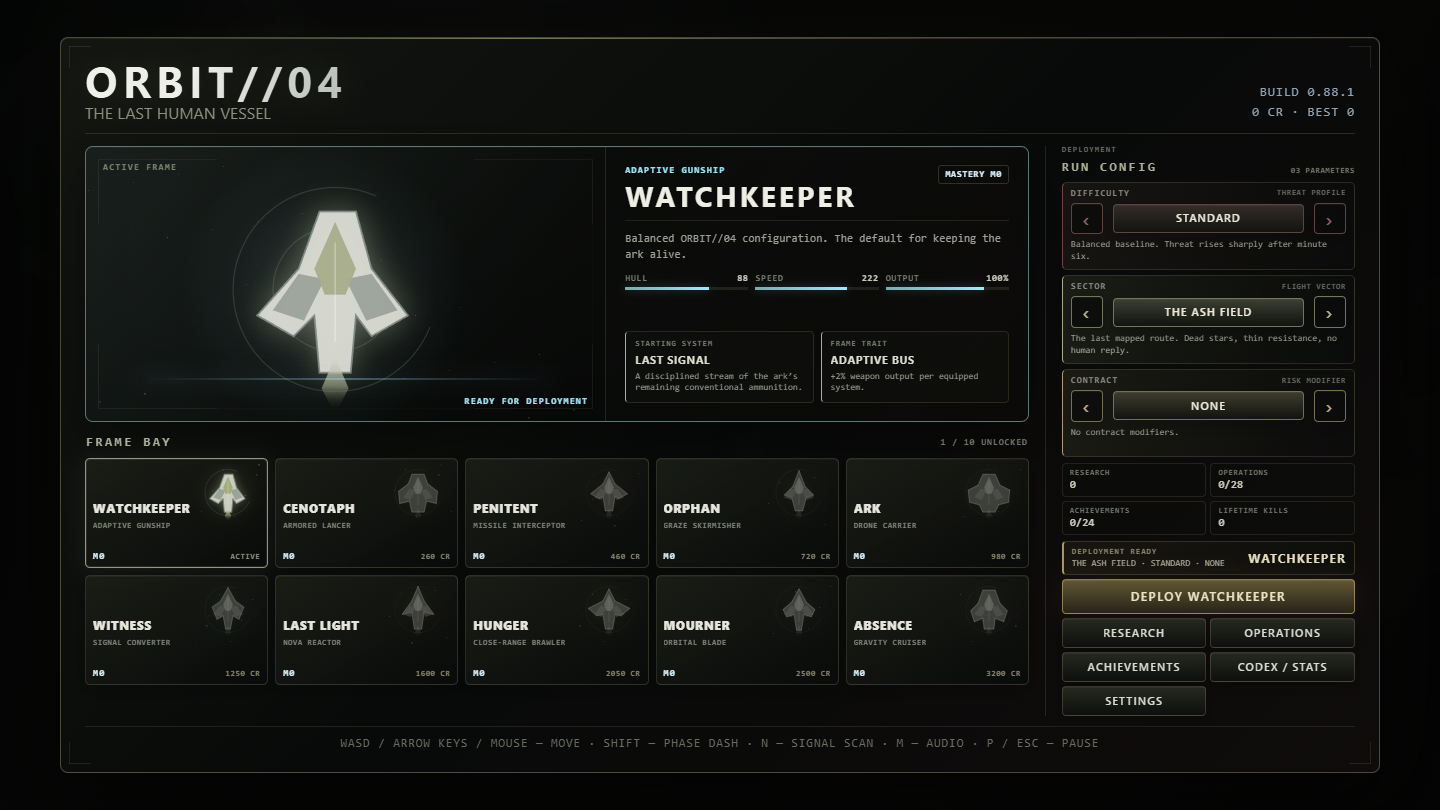
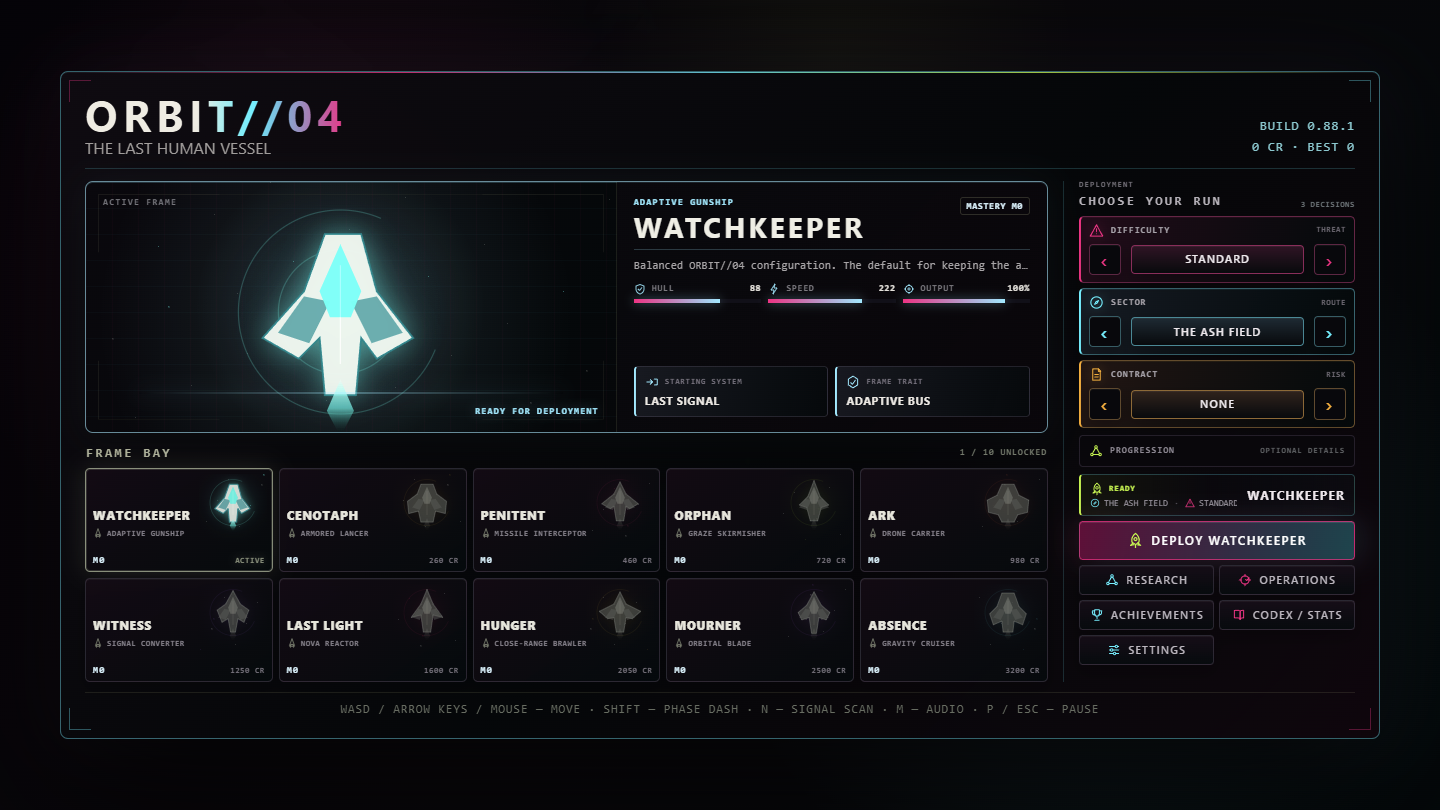
feat: rebuild launch menu with neon-noir clarity

Changed region(s): [[0.0625, 0.0926, 0.9688, 0.9259], [0.0312, 0.0617, 0.25, 0.2469], [0.0625, 0.7716, 0.125, 0.8025]]

diff --git a/styles.css b/styles.css
@@ -167,3 +167,25 @@ button:hover:not(:disabled){border-color:rgba(195,190,140,.78);background:linear
 @media(max-width:900px){.settingsList{grid-template-columns:1fr}.settingRow{min-height:54px}}
 @media(max-width:780px){.sectionHeading>i,.runOptionHeader>i{display:none}.optionStepper{grid-template-columns:38px minmax(0,1fr) 38px}.launchSummary{grid-template-columns:1fr}.launchSummary b{grid-row:auto;grid-column:auto}.settingsHeader{align-items:flex-start;flex-direction:column}.smallPanel .menuRow.centered{grid-template-columns:1fr}}
 @media(prefers-reduced-motion:reduce){button:not(.shipCard):not(.choice):after{display:none}}
+
+/* Neon-noir clarity pass — hot accents over a damaged, low-luminance world. */
+:root{--hm-cyan:#35efff;--hm-magenta:#ff2d82;--hm-acid:#bdf34b;--hm-amber:#ffae36;--hm-violet:#aa6cff;--hm-ink:#050407;--cyan:#79f7ff;--mint:#bdfb73;--amber:#ffc05a;--red:#ff4b78;--violet:#c28aff}
+.iconDefs{position:absolute;width:0;height:0;overflow:hidden}.uiIcon{display:inline-block;flex:0 0 auto;width:14px;height:14px;overflow:visible;vertical-align:-2px;fill:none;stroke:currentColor;stroke-width:1.75;stroke-linecap:round;stroke-linejoin:round}
+#titleScreen{--rot:#91b43b;--rot-hi:var(--hm-acid);--rust:#bd553b;--blood:var(--hm-magenta);--old-gold:var(--hm-amber);--ash-blue:var(--hm-cyan);--bone:#e8e2d7}
+#titleScreen.overlay{background:radial-gradient(circle at 22% 33%,rgba(255,45,130,.12),transparent 29%),radial-gradient(circle at 77% 68%,rgba(53,239,255,.10),transparent 32%),radial-gradient(circle at 58% 7%,rgba(189,243,75,.045),transparent 22%),linear-gradient(123deg,rgba(5,3,8,.94),rgba(11,8,12,.87) 48%,rgba(2,8,10,.95));backdrop-filter:blur(8px) saturate(.82)}
+#titleScreen .titlePanel{border-color:rgba(53,239,255,.40);background:linear-gradient(136deg,rgba(15,11,17,.975),rgba(5,7,9,.98) 55%,rgba(16,6,12,.97));box-shadow:0 42px 130px rgba(0,0,0,.86),-16px 0 70px rgba(255,45,130,.035),16px 0 70px rgba(53,239,255,.035),inset 0 1px rgba(255,255,255,.055)}
+#titleScreen .titlePanel:before{background:linear-gradient(90deg,transparent,var(--hm-magenta),var(--hm-cyan),var(--hm-acid),transparent);opacity:.78}#titleScreen .titlePanel:after{background:linear-gradient(var(--hm-magenta),var(--hm-magenta)) left top/22px 1px no-repeat,linear-gradient(var(--hm-magenta),var(--hm-magenta)) left top/1px 22px no-repeat,linear-gradient(var(--hm-cyan),var(--hm-cyan)) right top/22px 1px no-repeat,linear-gradient(var(--hm-cyan),var(--hm-cyan)) right top/1px 22px no-repeat,linear-gradient(var(--hm-cyan),var(--hm-cyan)) left bottom/22px 1px no-repeat,linear-gradient(var(--hm-cyan),var(--hm-cyan)) left bottom/1px 22px no-repeat,linear-gradient(var(--hm-magenta),var(--hm-magenta)) right bottom/22px 1px no-repeat,linear-gradient(var(--hm-magenta),var(--hm-magenta)) right bottom/1px 22px no-repeat;opacity:.34}
+#titleScreen .brand{border-color:rgba(53,239,255,.18)}#titleScreen .brand h1{background:linear-gradient(92deg,#f0ece3 0 43%,var(--hm-cyan) 64%,var(--hm-magenta));-webkit-background-clip:text;background-clip:text;color:transparent;text-shadow:none}#titleScreen .brand .muted{color:#a5a09e}#titleScreen .tag{color:#7bc8d0}
+#titleScreen .menuColumns{grid-template-columns:minmax(0,2.86fr) minmax(292px,.86fr);gap:15px}.frameStage{height:252px;border-color:color-mix(in srgb,var(--frame-accent) 52%,#29252c);background:radial-gradient(circle at 26% 54%,color-mix(in srgb,var(--frame-accent) 12%,transparent),transparent 33%),linear-gradient(126deg,rgba(10,8,13,.98),rgba(4,8,10,.97) 52%,rgba(13,5,10,.97));box-shadow:inset 0 1px color-mix(in srgb,var(--frame-accent) 18%,transparent),0 22px 62px rgba(0,0,0,.42),0 0 32px color-mix(in srgb,var(--frame-accent) 5%,transparent)}
+.frameVisual{background:linear-gradient(rgba(53,239,255,.025) 1px,transparent 1px),linear-gradient(90deg,rgba(255,45,130,.024) 1px,transparent 1px),radial-gradient(circle at 48% 50%,color-mix(in srgb,var(--frame-accent) 14%,transparent),transparent 48%);background-size:26px 26px,26px 26px,auto}.frameVisualLabel{color:#77777d}.frameAvailability{color:var(--frame-accent);text-shadow:0 0 12px color-mix(in srgb,var(--frame-accent) 38%,transparent)}
+.frameBrief{padding:15px 17px;background:linear-gradient(135deg,rgba(19,10,18,.38),rgba(3,10,12,.24))}.frameHeading{padding-bottom:8px;border-color:color-mix(in srgb,var(--frame-accent) 22%,transparent)}.frameDescription{min-height:0;margin:8px 0;overflow:hidden;text-overflow:ellipsis;white-space:nowrap;color:#a7a4a6}.frameStats{margin-bottom:8px}.frameStats>div>span{align-items:center;justify-content:flex-start;color:#7e7c82}.frameStats>div>span b{margin-left:auto;color:#e6e2dc}.frameStats .uiIcon{width:12px;height:12px;color:var(--frame-accent)}.frameStats i{height:4px;background:#111018}.frameStats em{background:linear-gradient(90deg,var(--hm-magenta),var(--frame-accent));box-shadow:0 0 10px color-mix(in srgb,var(--frame-accent) 44%,transparent)}
+.frameLoadout>div{position:relative;padding:8px 9px;border-color:rgba(122,112,135,.25);border-left:2px solid var(--frame-accent);background:linear-gradient(105deg,color-mix(in srgb,var(--frame-accent) 7%,rgba(15,10,17,.78)),rgba(4,9,11,.74))}.frameLoadout span{display:flex;align-items:center;gap:6px;color:#77737e}.frameLoadout span .uiIcon{color:var(--frame-accent)}.frameLoadout b{color:#eee9e4}.compactDetail,.optionDetail{position:absolute!important;width:1px!important;height:1px!important;padding:0!important;margin:-1px!important;overflow:hidden!important;clip:rect(0,0,0,0)!important;white-space:nowrap!important;border:0!important}
+#titleScreen .shipGrid{gap:6px}.shipCard{height:104px;border-color:rgba(102,91,112,.36);background:linear-gradient(146deg,rgba(22,11,21,.84),rgba(4,10,12,.94))}.shipCard:hover{border-color:var(--ship-accent);background:linear-gradient(146deg,color-mix(in srgb,var(--ship-accent) 10%,rgba(19,9,18,.90)),rgba(3,11,13,.96));box-shadow:0 13px 30px rgba(0,0,0,.45),0 0 24px color-mix(in srgb,var(--ship-accent) 15%,transparent)}.shipCard.selected{border-color:var(--ship-accent)!important;box-shadow:inset 0 0 0 1px color-mix(in srgb,var(--ship-accent) 28%,transparent),0 0 24px color-mix(in srgb,var(--ship-accent) 20%,transparent)}.shipCardRole{display:flex;align-items:center;gap:4px;color:#86818a}.shipCardRole .uiIcon{width:10px;height:10px;color:var(--ship-accent)}.shipCardStatus{color:#77727c}.shipCard.selected .shipCardStatus{color:var(--ship-accent);text-shadow:0 0 10px color-mix(in srgb,var(--ship-accent) 45%,transparent)}
+#titleScreen .sideMenu{padding-left:15px;border-color:rgba(53,239,255,.16)}#titleScreen .sectionHeading span{color:#737078}#titleScreen .sectionHeading h2{color:#b5b1b8}#titleScreen .sectionHeading>i{color:#6b7478}.runOption{margin-bottom:6px;padding:8px;border-color:color-mix(in srgb,var(--option-color) 34%,#242129);border-left:2px solid var(--option-color);background:linear-gradient(105deg,color-mix(in srgb,var(--option-color) 8%,rgba(17,8,16,.90)),rgba(3,9,11,.88));box-shadow:inset 0 1px color-mix(in srgb,var(--option-color) 8%,transparent)}.runOptionHeader{margin-bottom:6px!important}.runOptionHeader>span{display:flex;align-items:center;gap:7px!important;color:#aaa5ac}.runOptionHeader .optionIcon{width:15px;height:15px;color:var(--option-color);filter:drop-shadow(0 0 5px color-mix(in srgb,var(--option-color) 35%,transparent))}.runOptionHeader>i{color:#6e6972}.runOption .stepValue{border-color:color-mix(in srgb,var(--option-color) 48%,#302a35);background:linear-gradient(180deg,color-mix(in srgb,var(--option-color) 12%,#171018),#080a0d);color:#f0eaee}.runOption .stepArrow{border-color:color-mix(in srgb,var(--option-color) 28%,#26232a);color:var(--option-color);background:#08080c}.runOption:hover{border-color:color-mix(in srgb,var(--option-color) 65%,#3a3340)}.difficultyOption{--option-color:var(--hm-magenta)}.sectorOption{--option-color:var(--hm-cyan)}.contractOption{--option-color:var(--hm-amber)}
+.profileDetails{margin-top:7px;border:1px solid rgba(112,94,121,.28);border-radius:4px;background:rgba(8,7,11,.72)}.profileDetails summary{display:flex;align-items:center;gap:7px;padding:8px 9px;cursor:pointer;list-style:none;font:700 calc(8px * var(--ui-scale))/1 var(--mono);letter-spacing:.11em;color:#918b95}.profileDetails summary::-webkit-details-marker{display:none}.profileDetails summary .uiIcon{color:var(--hm-acid)}.profileDetails summary i{margin-left:auto;font:600 calc(7px * var(--ui-scale))/1 var(--mono);font-style:normal;color:#5f6265}.profileDetails[open] summary{border-bottom:1px solid rgba(112,94,121,.22)}#titleScreen .profileSummary{margin:0;padding:5px}.profileSummary>div{display:grid;grid-template-columns:15px 1fr auto;align-items:center;gap:5px;background:#08090c}.profileSummary>div>.uiIcon{width:12px;height:12px;color:var(--hm-cyan)}.profileSummary span,.profileSummary b{margin:0}
+#titleScreen .menuStack{gap:5px;margin-top:7px}#titleScreen .menuStack button{display:flex;align-items:center;justify-content:center;gap:7px;border-color:rgba(93,81,101,.42);background:linear-gradient(180deg,rgba(24,14,24,.96),rgba(6,11,14,.98));color:#bdb7bf}#titleScreen .menuStack button .uiIcon{width:14px;height:14px;color:var(--hm-cyan)}#titleScreen .menuStack button:nth-of-type(3) .uiIcon,#titleScreen .menuStack button:nth-of-type(5) .uiIcon{color:var(--hm-magenta)}#titleScreen .menuStack button:hover{border-color:var(--hm-cyan);color:#fff;box-shadow:0 0 20px rgba(53,239,255,.08)}#titleScreen .menuStack .primary{min-height:39px;border-color:rgba(255,45,130,.72);background:linear-gradient(102deg,rgba(104,13,57,.98),rgba(12,70,78,.98));color:#fff;box-shadow:inset 0 1px rgba(255,255,255,.10),-10px 0 28px rgba(255,45,130,.10),10px 0 28px rgba(53,239,255,.09)}#titleScreen .menuStack .primary .uiIcon{width:17px;height:17px;color:var(--hm-acid)}#titleScreen .menuStack .primary:hover{border-color:var(--hm-acid);box-shadow:-12px 0 34px rgba(255,45,130,.14),12px 0 34px rgba(53,239,255,.13)}
+.launchSummary{padding:7px 9px;border-color:rgba(53,239,255,.23);border-left-color:var(--hm-acid);background:linear-gradient(90deg,rgba(86,108,27,.12),rgba(10,8,13,.82) 48%,rgba(8,31,35,.18))}.launchSummary span{display:flex;align-items:center;gap:5px;color:var(--hm-acid)}.launchSummary b{color:#f1eaee}.launchSummary i{display:flex;align-items:center;gap:4px;color:#98939c}.launchSummary i .uiIcon{width:10px;height:10px;color:var(--hm-cyan)}.launchSummary i .uiIcon:nth-of-type(2){color:var(--hm-magenta)}.launchSummary i .uiIcon:nth-of-type(3){color:var(--hm-amber)}.launchSummary em{margin:0 2px;color:#56515a;font-style:normal}
+#hudTop>div{border-color:rgba(53,239,255,.28);background:linear-gradient(180deg,rgba(10,12,18,.92),rgba(4,8,11,.82));box-shadow:inset 0 1px rgba(53,239,255,.04),0 9px 27px rgba(0,0,0,.36)}#hudSub{border-left-color:var(--hm-magenta);background:rgba(8,7,12,.78)}#xpbar{border-color:rgba(53,239,255,.52);background:#07060b}#xpfill{background:linear-gradient(90deg,var(--hm-magenta),var(--hm-cyan),var(--hm-acid));box-shadow:0 0 15px rgba(53,239,255,.35)}#rushFill{background:linear-gradient(90deg,var(--hm-magenta),var(--hm-cyan),var(--hm-acid))}.toast{border-color:rgba(53,239,255,.32);background:linear-gradient(145deg,rgba(18,9,18,.96),rgba(4,11,14,.98))}.rewardRibbon{border-color:rgba(189,243,75,.58);background:linear-gradient(90deg,transparent,rgba(12,20,15,.94) 20%,rgba(17,9,18,.94) 80%,transparent)}
+.choice{--choice-accent:var(--hm-cyan);border-left:2px solid var(--choice-accent);background:linear-gradient(145deg,color-mix(in srgb,var(--choice-accent) 6%,rgba(20,10,20,.82)),rgba(5,10,12,.92))}.choice:nth-child(3n+2){--choice-accent:var(--hm-magenta)}.choice:nth-child(3n){--choice-accent:var(--hm-acid)}.choice:hover{border-color:var(--choice-accent);box-shadow:0 0 26px color-mix(in srgb,var(--choice-accent) 9%,transparent)}
+@media(max-width:1050px){#titleScreen .menuColumns{grid-template-columns:1fr}.frameStage{height:248px}.profileDetails{max-width:520px}.runOption{display:inline-block;width:calc(33.333% - 5px)}}
+@media(max-width:780px){.frameStage{height:auto}.frameDescription{white-space:normal}.runOption{display:block;width:100%}.profileDetails{max-width:none}.launchSummary i{display:block}}

diff --git a/index.html b/index.html
@@ -4,7 +4,7 @@
   <meta charset="utf-8" />
   <meta name="viewport" content="width=device-width,initial-scale=1,user-scalable=no" />
   <meta name="description" content="ORBIT//04 is a top-down survival game about the last human vessel crossing an alien-conquered universe." />
-  <meta name="theme-color" content="#05070a" />
+  <meta name="theme-color" content="#07050a" />
   <meta http-equiv="Content-Security-Policy" content="default-src 'self' data: blob:; script-src 'self'; style-src 'self' 'unsafe-inline'; img-src 'self' data: blob:; media-src 'self' data: blob:; connect-src 'self' data: blob:" />
   <title>ORBIT//04</title>
   <link rel="stylesheet" href="styles.css" />
@@ -14,6 +14,25 @@
   <script src="game.js" defer></script>
 </head>
 <body>
+<svg class="iconDefs" aria-hidden="true" focusable="false">
+  <defs>
+    <symbol id="icon-frame" viewBox="0 0 24 24"><path d="M12 2 18 18 12 15 6 18 12 2Z"/><path d="M9 16 7 22l5-3 5 3-2-6"/></symbol>
+    <symbol id="icon-hull" viewBox="0 0 24 24"><path d="M12 3 20 6v6c0 5-3.3 8-8 10-4.7-2-8-5-8-10V6l8-3Z"/><path d="m8 12 3 3 5-6"/></symbol>
+    <symbol id="icon-speed" viewBox="0 0 24 24"><path d="m14 2-8 12h6l-2 8 8-12h-6l2-8Z"/></symbol>
+    <symbol id="icon-output" viewBox="0 0 24 24"><circle cx="12" cy="12" r="7"/><circle cx="12" cy="12" r="2"/><path d="M12 2v4m0 12v4M2 12h4m12 0h4"/></symbol>
+    <symbol id="icon-weapon" viewBox="0 0 24 24"><path d="M3 12h10m-4-4 4 4-4 4"/><path d="M16 7h5v10h-5"/></symbol>
+    <symbol id="icon-trait" viewBox="0 0 24 24"><path d="m12 2 8 5v10l-8 5-8-5V7l8-5Z"/><path d="m8 13 3 3 5-7"/></symbol>
+    <symbol id="icon-threat" viewBox="0 0 24 24"><path d="M12 3 2 21h20L12 3Z"/><path d="M12 9v5m0 3v.1"/></symbol>
+    <symbol id="icon-sector" viewBox="0 0 24 24"><circle cx="12" cy="12" r="9"/><path d="m15 9-2 4-4 2 2-4 4-2Z"/></symbol>
+    <symbol id="icon-contract" viewBox="0 0 24 24"><path d="M6 3h9l3 3v15H6V3Z"/><path d="M15 3v4h4M9 12h6m-6 4h6"/></symbol>
+    <symbol id="icon-research" viewBox="0 0 24 24"><circle cx="12" cy="5" r="2"/><circle cx="5" cy="18" r="2"/><circle cx="19" cy="18" r="2"/><path d="m11 7-5 9m7-9 5 9M7 18h10"/></symbol>
+    <symbol id="icon-operations" viewBox="0 0 24 24"><circle cx="12" cy="12" r="7"/><path d="M12 2v4m0 12v4M2 12h4m12 0h4m-9-1 2 2 4-5"/></symbol>
+    <symbol id="icon-achievements" viewBox="0 0 24 24"><path d="M8 3h8v7a4 4 0 0 1-8 0V3Z"/><path d="M8 5H4v2c0 3 2 5 5 5m7-7h4v2c0 3-2 5-5 5m-3 2v4m-4 3h8"/></symbol>
+    <symbol id="icon-codex" viewBox="0 0 24 24"><path d="M4 4h7a3 3 0 0 1 3 3v13a3 3 0 0 0-3-3H4V4Z"/><path d="M20 4h-3a3 3 0 0 0-3 3v13a3 3 0 0 1 3-3h3V4Z"/></symbol>
+    <symbol id="icon-settings" viewBox="0 0 24 24"><path d="M4 6h10m4 0h2M4 12h2m4 0h10M4 18h7m4 0h5"/><circle cx="16" cy="6" r="2"/><circle cx="8" cy="12" r="2"/><circle cx="13" cy="18" r="2"/></symbol>
+    <symbol id="icon-launch" viewBox="0 0 24 24"><path d="M12 2c4 3 6 7 5 12l-5 4-5-4c-1-5 1-9 5-12Z"/><circle cx="12" cy="10" r="2"/><path d="m8 16-3 3 4-1m7-2 3 3-4-1M12 18v4"/></symbol>
+  </defs>
+</svg>
 <div id="wrap">
   <canvas id="game" width="1440" height="810" aria-label="ORBIT//04 game canvas"></canvas>
   <canvas id="gameThree" class="threeGameCanvas" width="1440" height="810" aria-label="ORBIT//04 Three.js presentation layer"></canvas>
@@ -56,13 +75,13 @@
               </div>
               <p id="frameDescription" class="frameDescription"></p>
               <div class="frameStats" aria-label="Selected frame statistics">
-                <div><span>HULL <b id="frameHullValue"></b></span><i><em id="frameHullBar"></em></i></div>
-                <div><span>SPEED <b id="frameSpeedValue"></b></span><i><em id="frameSpeedBar"></em></i></div>
-                <div><span>OUTPUT <b id="frameOutputValue"></b></span><i><em id="frameOutputBar"></em></i></div>
+                <div><span><svg class="uiIcon"><use href="#icon-hull"/></svg> HULL <b id="frameHullValue"></b></span><i><em id="frameHullBar"></em></i></div>
+                <div><span><svg class="uiIcon"><use href="#icon-speed"/></svg> SPEED <b id="frameSpeedValue"></b></span><i><em id="frameSpeedBar"></em></i></div>
+                <div><span><svg class="uiIcon"><use href="#icon-output"/></svg> OUTPUT <b id="frameOutputValue"></b></span><i><em id="frameOutputBar"></em></i></div>
               </div>
               <div class="frameLoadout">
-                <div><span>STARTING SYSTEM</span><b id="frameWeapon"></b><small id="frameWeaponDesc"></small></div>
-                <div><span>FRAME TRAIT</span><b id="frameTrait"></b><small id="frameTraitDesc"></small></div>
+                <div id="frameWeaponCard"><span><svg class="uiIcon"><use href="#icon-weapon"/></svg> STARTING SYSTEM</span><b id="frameWeapon"></b><small id="frameWeaponDesc" class="compactDetail"></small></div>
+                <div id="frameTraitCard"><span><svg class="uiIcon"><use href="#icon-trait"/></svg> FRAME TRAIT</span><b id="frameTrait"></b><small id="frameTraitDesc" class="compactDetail"></small></div>
               </div>
             </div>
           </div>
@@ -70,36 +89,39 @@
           <div id="shipGrid" class="shipGrid"></div>
         </div>
         <div class="sideMenu">
-          <div class="sectionHeading"><div><span>DEPLOYMENT</span><h2>RUN CONFIG</h2></div><i>03 PARAMETERS</i></div>
+          <div class="sectionHeading"><div><span>DEPLOYMENT</span><h2>CHOOSE YOUR RUN</h2></div><i>3 DECISIONS</i></div>
           <div class="runOption difficultyOption">
-            <div class="runOptionHeader"><span>DIFFICULTY</span><i>THREAT PROFILE</i></div>
+            <div class="runOptionHeader"><span><svg class="uiIcon optionIcon"><use href="#icon-threat"/></svg> DIFFICULTY</span><i>THREAT</i></div>
             <div class="optionStepper"><button id="difficultyPrev" class="stepArrow" aria-label="Previous difficulty">‹</button><button id="difficultyBtn" class="stepValue"></button><button id="difficultyNext" class="stepArrow" aria-label="Next difficulty">›</button></div>
-            <p id="difficultyDesc"></p>
+            <p id="difficultyDesc" class="optionDetail"></p>
           </div>
           <div class="runOption sectorOption">
-            <div class="runOptionHeader"><span>SECTOR</span><i>FLIGHT VECTOR</i></div>
+            <div class="runOptionHeader"><span><svg class="uiIcon optionIcon"><use href="#icon-sector"/></svg> SECTOR</span><i>ROUTE</i></div>
             <div class="optionStepper"><button id="sectorPrev" class="stepArrow" aria-label="Previous sector">‹</button><button id="sectorBtn" class="stepValue"></button><button id="sectorNext" class="stepArrow" aria-label="Next sector">›</button></div>
-            <p id="sectorDesc"></p>
+            <p id="sectorDesc" class="optionDetail"></p>
           </div>
           <div class="runOption contractOption">
-            <div class="runOptionHeader"><span>CONTRACT</span><i>RISK MODIFIER</i></div>
+            <div class="runOptionHeader"><span><svg class="uiIcon optionIcon"><use href="#icon-contract"/></svg> CONTRACT</span><i>RISK</i></div>
             <div class="optionStepper"><button id="contractPrev" class="stepArrow" aria-label="Previous contract">‹</button><button id="contractBtn" class="stepValue"></button><button id="contractNext" class="stepArrow" aria-label="Next contract">›</button></div>
-            <p id="contractDesc"></p>
+            <p id="contractDesc" class="optionDetail"></p>
           </div>
-          <div class="profileSummary">
-            <div><span>RESEARCH</span><b id="researchLevelText">0</b></div>
-            <div><span>OPERATIONS</span><b id="operationCountText">0/0</b></div>
-            <div><span>ACHIEVEMENTS</span><b id="achievementCountText">0/0</b></div>
-            <div><span>LIFETIME KILLS</span><b id="lifetimeKillsText">0</b></div>
-          </div>
+          <details class="profileDetails">
+            <summary><svg class="uiIcon"><use href="#icon-research"/></svg><span>PROGRESSION</span><i>OPTIONAL DETAILS</i></summary>
+            <div class="profileSummary">
+              <div><svg class="uiIcon"><use href="#icon-research"/></svg><span>RESEARCH</span><b id="researchLevelText">0</b></div>
+              <div><svg class="uiIcon"><use href="#icon-operations"/></svg><span>OPERATIONS</span><b id="operationCountText">0/0</b></div>
+              <div><svg class="uiIcon"><use href="#icon-achievements"/></svg><span>ACHIEVEMENTS</span><b id="achievementCountText">0/0</b></div>
+              <div><svg class="uiIcon"><use href="#icon-output"/></svg><span>LIFETIME KILLS</span><b id="lifetimeKillsText">0</b></div>
+            </div>
+          </details>
           <div class="menuStack">
             <div id="launchSummary" class="launchSummary" aria-live="polite"></div>
-            <button id="startBtn" class="primary">START RUN</button>
-            <button id="researchBtn">RESEARCH</button>
-            <button id="operationsBtn">OPERATIONS</button>
-            <button id="achievementsBtn">ACHIEVEMENTS</button>
-            <button id="codexBtn">CODEX / STATS</button>
-            <button id="settingsBtn">SETTINGS</button>
+            <button id="startBtn" class="primary"><svg class="uiIcon"><use href="#icon-launch"/></svg><span>START RUN</span></button>
+            <button id="researchBtn"><svg class="uiIcon"><use href="#icon-research"/></svg><span>RESEARCH</span></button>
+            <button id="operationsBtn"><svg class="uiIcon"><use href="#icon-operations"/></svg><span>OPERATIONS</span></button>
+            <button id="achievementsBtn"><svg class="uiIcon"><use href="#icon-achievements"/></svg><span>ACHIEVEMENTS</span></button>
+            <button id="codexBtn"><svg class="uiIcon"><use href="#icon-codex"/></svg><span>CODEX / STATS</span></button>
+            <button id="settingsBtn"><svg class="uiIcon"><use href="#icon-settings"/></svg><span>SETTINGS</span></button>
             <button id="supportBtn" class="hidden">SUPPORT DEVELOPMENT</button>
           </div>
         </div>

diff --git a/game.js b/game.js
@@ -388,13 +388,14 @@ function checkMetaAchievements(){
 
 // ---------- MENU / SETTINGS ----------
 const HANGAR_PALETTES={
-  striker:{main:'#d0d1c4',edge:'#788980',accent:'#a0aa78'},bastion:{main:'#cbc5ad',edge:'#7c755b',accent:'#b3995e'},
-  wraith:{main:'#c2b8b5',edge:'#785c5a',accent:'#995a53'},specter:{main:'#bbb8aa',edge:'#626955',accent:'#87936a'},
-  bulwark:{main:'#c5c8b7',edge:'#65735e',accent:'#809064'},oracle:{main:'#c5c1b5',edge:'#6c7a75',accent:'#829894'},
-  vector:{main:'#c7b9aa',edge:'#805b4d',accent:'#a66c50'},talon:{main:'#c7bea8',edge:'#79664c',accent:'#a88958'},
-  halo:{main:'#c0b7bc',edge:'#705e69',accent:'#8f7380'},event:{main:'#bcbeb4',edge:'#59665f',accent:'#768a78'}
+  striker:{main:'#d8ded8',edge:'#087f86',accent:'#32eee0'},bastion:{main:'#d6ccb4',edge:'#8f5d25',accent:'#ffae32'},
+  wraith:{main:'#d4c1c9',edge:'#852951',accent:'#ff357f'},specter:{main:'#cbd1b8',edge:'#5f7d29',accent:'#b9f447'},
+  bulwark:{main:'#d7c8b8',edge:'#9a492e',accent:'#ff7045'},oracle:{main:'#c8c2d3',edge:'#694d8d',accent:'#a873ff'},
+  vector:{main:'#d6bcc6',edge:'#9c234c',accent:'#ff236d'},talon:{main:'#d5c8ae',edge:'#8d6925',accent:'#ffc13d'},
+  halo:{main:'#cabfd3',edge:'#6d438c',accent:'#c167ff'},event:{main:'#c5d0cc',edge:'#13727b',accent:'#29e4f2'}
 };
 const hangarShipPalette=id=>HANGAR_PALETTES[id]||HANGAR_PALETTES.striker;
+const uiIconMarkup=name=>`<svg class="uiIcon" aria-hidden="true"><use href="#icon-${name}"/></svg>`;
 function renderShipCanvas(canvas,id,large=false,locked=false){
   if(!canvas||typeof canvas.getContext!=='function')return false;
   const ctx=canvas.getContext('2d');if(!ctx)return false;
@@ -418,8 +419,8 @@ function renderShipCanvas(canvas,id,large=false,locked=false){
 function renderFrameBrief(id){
   const s=SHIPS[id]||SHIPS.striker,w=WEAPON_META[s.weapon],mastery=masteryLevel(id),pal=hangarShipPalette(id);
   $('frameStage').style['--frame-accent']=pal.accent;$('frameStage').style['--frame-edge']=pal.edge;
-  $('frameName').textContent=s.name;$('frameRole').textContent=s.role;$('frameDescription').textContent=s.desc;$('frameMastery').textContent=`MASTERY M${mastery}`;$('frameMastery').style.color=masteryColor(mastery);
-  $('frameWeapon').textContent=w.name;$('frameWeaponDesc').textContent=w.desc;$('frameTrait').textContent=s.trait;$('frameTraitDesc').textContent=s.traitDesc;$('frameAvailability').textContent='READY FOR DEPLOYMENT';
+  $('frameName').textContent=s.name;$('frameRole').textContent=s.role;$('frameDescription').textContent=s.desc;$('frameDescription').title=s.desc;$('frameMastery').textContent=`MASTERY M${mastery}`;$('frameMastery').style.color=masteryColor(mastery);
+  $('frameWeapon').textContent=w.name;$('frameWeaponDesc').textContent=w.desc;$('frameWeaponCard').title=w.desc;$('frameTrait').textContent=s.trait;$('frameTraitDesc').textContent=s.traitDesc;$('frameTraitCard').title=s.traitDesc;$('frameAvailability').textContent='READY FOR DEPLOYMENT';
   $('frameHullValue').textContent=s.hp;$('frameSpeedValue').textContent=s.speed;$('frameOutputValue').textContent=`${Math.round(s.damage*100)}%`;
   $('frameHullBar').style.width=`${clamp(s.hp/130*100,8,100)}%`;$('frameSpeedBar').style.width=`${clamp(s.speed/300*100,8,100)}%`;$('frameOutputBar').style.width=`${clamp(s.damage/1.25*100,8,100)}%`;
   $('frameRosterCount').textContent=`${save.unlocked.length} / ${Object.keys(SHIPS).length} UNLOCKED`;renderShipCanvas($('framePreview'),id,true,false);
@@ -427,14 +428,14 @@ function renderFrameBrief(id){
 function renderMenu(){
   $('saveLine').textContent=`${save.credits} CR · BEST ${Math.floor(save.bestScore)}`;
   $('researchLevelText').textContent=researchLevels();$('achievementCountText').textContent=`${save.achievements.length}/${Object.keys(ACHIEVEMENTS).length}`;$('lifetimeKillsText').textContent=save.totalKills;$('operationCountText').textContent=`${save.claimedOperations.length}/${Object.keys(OPERATIONS).length}${readyOperations().length?` · ${readyOperations().length} READY`:''}`;
-  const d=DIFFICULTIES[save.difficulty]||DIFFICULTIES.STANDARD;$('difficultyBtn').textContent=d.name;$('difficultyBtn').setAttribute('aria-label',`Current difficulty: ${d.name}. Select next difficulty.`);$('difficultyDesc').textContent=d.desc;const contract=CONTRACTS[save.contract]||CONTRACTS.NONE;$('contractBtn').textContent=contract.name;$('contractBtn').setAttribute('aria-label',`Current contract: ${contract.name}. Select next contract.`);$('contractDesc').textContent=contract.desc;const sector=SECTORS[save.sector]||SECTORS.AURORA;$('sectorBtn').textContent=sector.name;$('sectorBtn').setAttribute('aria-label',`Current sector: ${sector.name}. Select next sector.`);$('sectorDesc').textContent=sector.desc;
+  const d=DIFFICULTIES[save.difficulty]||DIFFICULTIES.STANDARD;$('difficultyBtn').textContent=d.name;$('difficultyBtn').title=d.desc;$('difficultyBtn').setAttribute('aria-label',`Current difficulty: ${d.name}. ${d.desc}`);$('difficultyDesc').textContent=d.desc;const contract=CONTRACTS[save.contract]||CONTRACTS.NONE;$('contractBtn').textContent=contract.name;$('contractBtn').title=contract.desc;$('contractBtn').setAttribute('aria-label',`Current contract: ${contract.name}. ${contract.desc}`);$('contractDesc').textContent=contract.desc;const sector=SECTORS[save.sector]||SECTORS.AURORA;$('sectorBtn').textContent=sector.name;$('sectorBtn').title=sector.desc;$('sectorBtn').setAttribute('aria-label',`Current sector: ${sector.name}. ${sector.desc}`);$('sectorDesc').textContent=sector.desc;
   const selectedId=save.unlocked.includes(save.selected)&&SHIPS[save.selected]?save.selected:'striker';if(save.selected!==selectedId)save.selected=selectedId;renderFrameBrief(selectedId);
-  const selectedShip=SHIPS[selectedId];$('launchSummary').innerHTML=`<span>DEPLOYMENT READY</span><b>${selectedShip.name}</b><i>${sector.name} · ${d.name} · ${contract.name}</i>`;$('startBtn').textContent=`DEPLOY ${selectedShip.name}`;
+  const selectedShip=SHIPS[selectedId];$('launchSummary').innerHTML=`<span>${uiIconMarkup('launch')} READY</span><b>${selectedShip.name}</b><i>${uiIconMarkup('sector')} ${sector.name} <em>·</em> ${uiIconMarkup('threat')} ${d.name} <em>·</em> ${uiIconMarkup('contract')} ${contract.name}</i>`;$('startBtn').innerHTML=`${uiIconMarkup('launch')}<span>DEPLOY ${selectedShip.name}</span>`;
   const grid=$('shipGrid');grid.innerHTML='';
   for(const [id,s] of Object.entries(SHIPS)){
     const unlocked=save.unlocked.includes(id),selected=save.selected===id;const b=document.createElement('button');b.className=`shipCard${selected?' selected':''}`;
     const cost=id==='oracle'&&save.achievements.includes('iff_friend')?Math.floor(s.cost*.7):s.cost;
-    const mastery=masteryLevel(id);b.style['--ship-accent']=hangarShipPalette(id).accent;b.setAttribute('aria-label',`${s.name}, ${s.role}${unlocked?', unlocked':`, locked, ${cost} credits`}`);b.innerHTML=`<canvas class="shipThumb" width="150" height="68" aria-hidden="true"></canvas><span class="shipCardTop"><b class="shipName">${s.name}</b><i style="color:${masteryColor(mastery)}">M${mastery}</i></span><span class="shipCardRole">${s.role}</span><span class="shipCardStatus">${selected?'ACTIVE':unlocked?'AVAILABLE':`${cost} CR`}</span>`;
+    const mastery=masteryLevel(id);b.style['--ship-accent']=hangarShipPalette(id).accent;b.setAttribute('aria-label',`${s.name}, ${s.role}${unlocked?', unlocked':`, locked, ${cost} credits`}`);b.innerHTML=`<canvas class="shipThumb" width="150" height="68" aria-hidden="true"></canvas><span class="shipCardTop"><b class="shipName">${s.name}</b><i style="color:${masteryColor(mastery)}">M${mastery}</i></span><span class="shipCardRole">${uiIconMarkup('frame')}${s.role}</span><span class="shipCardStatus">${selected?'ACTIVE':unlocked?'AVAILABLE':`${cost} CR`}</span>`;
     b.onclick=()=>{AUDIO.sfx('ui');if(!unlocked){if(save.credits>=cost){save.credits-=cost;save.unlocked.push(id);save.selected=id;persist();checkMetaAchievements()}else toast('INSUFFICIENT CREDITS',`${cost-save.credits} CR required.`);return}save.selected=id;persist()};grid.appendChild(b);
     renderShipCanvas(b.querySelector('canvas'),id,false,!unlocked);
   }

diff --git a/tests/smoke.js b/tests/smoke.js
@@ -37,7 +37,7 @@ vm.runInContext(`
   bootRenderer();
   if(rendererConfig?.type!==Phaser.WEBGL) throw new Error('renderer type must be explicit when using a custom canvas');
   if(!rendererConfig.render.antialiasGL||!rendererConfig.render.desynchronized||rendererConfig.fps.target!==120) throw new Error('premium renderer profile is incomplete');
-  save.settings.audio='OFF';document.getElementById('difficultyPrev').onclick();if(save.difficulty!=='HARDLINE') throw new Error('previous difficulty control failed');document.getElementById('difficultyNext').onclick();if(save.difficulty!=='STANDARD') throw new Error('next difficulty control failed');document.getElementById('contractPrev').onclick();if(save.contract!=='FRAGILE') throw new Error('previous contract control failed');document.getElementById('contractNext').onclick();if(save.contract!=='NONE') throw new Error('next contract control failed');if(!document.getElementById('launchSummary').innerHTML.includes('WATCHKEEPER')||!document.getElementById('startBtn').textContent.includes('DEPLOY WATCHKEEPER')) throw new Error('deployment summary is incomplete');
+  save.settings.audio='OFF';document.getElementById('difficultyPrev').onclick();if(save.difficulty!=='HARDLINE') throw new Error('previous difficulty control failed');document.getElementById('difficultyNext').onclick();if(save.difficulty!=='STANDARD') throw new Error('next difficulty control failed');document.getElementById('contractPrev').onclick();if(save.contract!=='FRAGILE') throw new Error('previous contract control failed');document.getElementById('contractNext').onclick();if(save.contract!=='NONE') throw new Error('next contract control failed');if(!document.getElementById('launchSummary').innerHTML.includes('WATCHKEEPER')||!document.getElementById('startBtn').innerHTML.includes('DEPLOY WATCHKEEPER')) throw new Error('deployment summary is incomplete');
   if(selectFieldDirective()!=='recovery') throw new Error('first directive rotation is incorrect');save.runs=1;if(selectFieldDirective()!=='transit') throw new Error('second directive rotation is incorrect');save.runs=2;if(selectFieldDirective()!=='attrition') throw new Error('third directive rotation is incorrect');save.runs=0;startRun();
   state.p.iFrames=9999;
   updateDirectiveHud();if(state.directiveId!=='recovery'||document.getElementById('directiveTracker').classList.contains('hidden')||!document.getElementById('directiveTrackerText').textContent.includes('RECOVERY ORDER')) throw new Error('field directive did not initialize');

diff --git a/README.md b/README.md
@@ -95,7 +95,7 @@ The renderer includes:
 
 ![ORBIT//04 version 0.88.1 studio launch hangar](docs/launch-hangar-v0.88.1.png)
 
-The launch hangar capture shows the selected runtime frame silhouette, compact frame bay, comparable ratings, and mission configuration at the same 1440 × 810 presentation used by the desktop build.
+The launch hangar capture shows the selected runtime frame, compact visual frame bay, three icon-led mission decisions, collapsed optional progression data, and the single primary deployment action at the same 1440 × 810 presentation used by the desktop build. Cyan, magenta, acid green, violet, and amber identify functions and risk while the underlying surfaces remain damaged and near-black.
 
 ![ORBIT//04 version 0.88.1 Last Ark runtime capture](docs/runtime-screenshot-v0.88.1.png)
 
@@ -121,6 +121,7 @@ The settings screen provides:
 - screen shake and flash toggles
 - full and reduced motion modes
 - three interface scales
+- labeled SVG icons for frame statistics, loadout roles, mission choices, progression, and navigation; icons are never used without text or accessible naming
 - particle, graphics, glow, background, and contrast controls
 - High, Balanced, and Cinematic effect-clarity modes with hostile projectile outlining and priority telegraphs
 - three dynamic-range profiles with independent music and sound-effect volume

diff --git a/CHANGELOG.md b/CHANGELOG.md
@@ -2,6 +2,11 @@
 
 ## Unreleased — Display Clarity and Motion Correction
 
+- rebuilt the launch hangar around three primary decisions, one deployment action, compact frame comparisons, and an optional collapsed progression summary
+- replaced text-heavy configuration cards with labeled semantic SVG icons, persistent accessible descriptions, and native hover tooltips
+- introduced a neon-noir interface palette using cyan, magenta, acid green, violet, and amber as functional signals over damaged near-black surfaces
+- extended the same color language to the combat HUD, XP and rush meters, reward feedback, and upgrade cards without brightening the ashen playfield
+- refreshed both verified Electron screenshots so repository presentation reflects the current runtime rather than concept artwork
 - added desktop audio autoplay handling plus explicit Phaser mixer unmute, unlock, and suspended-context recovery
 - added a movement-reactive low engine layer, alternate weapon samples, stronger default output, and a layered output check
 - separated the ashen environment grade from the combat grade so hostile silhouettes, friendly fire, pickups, and the ark retain clear color identities
